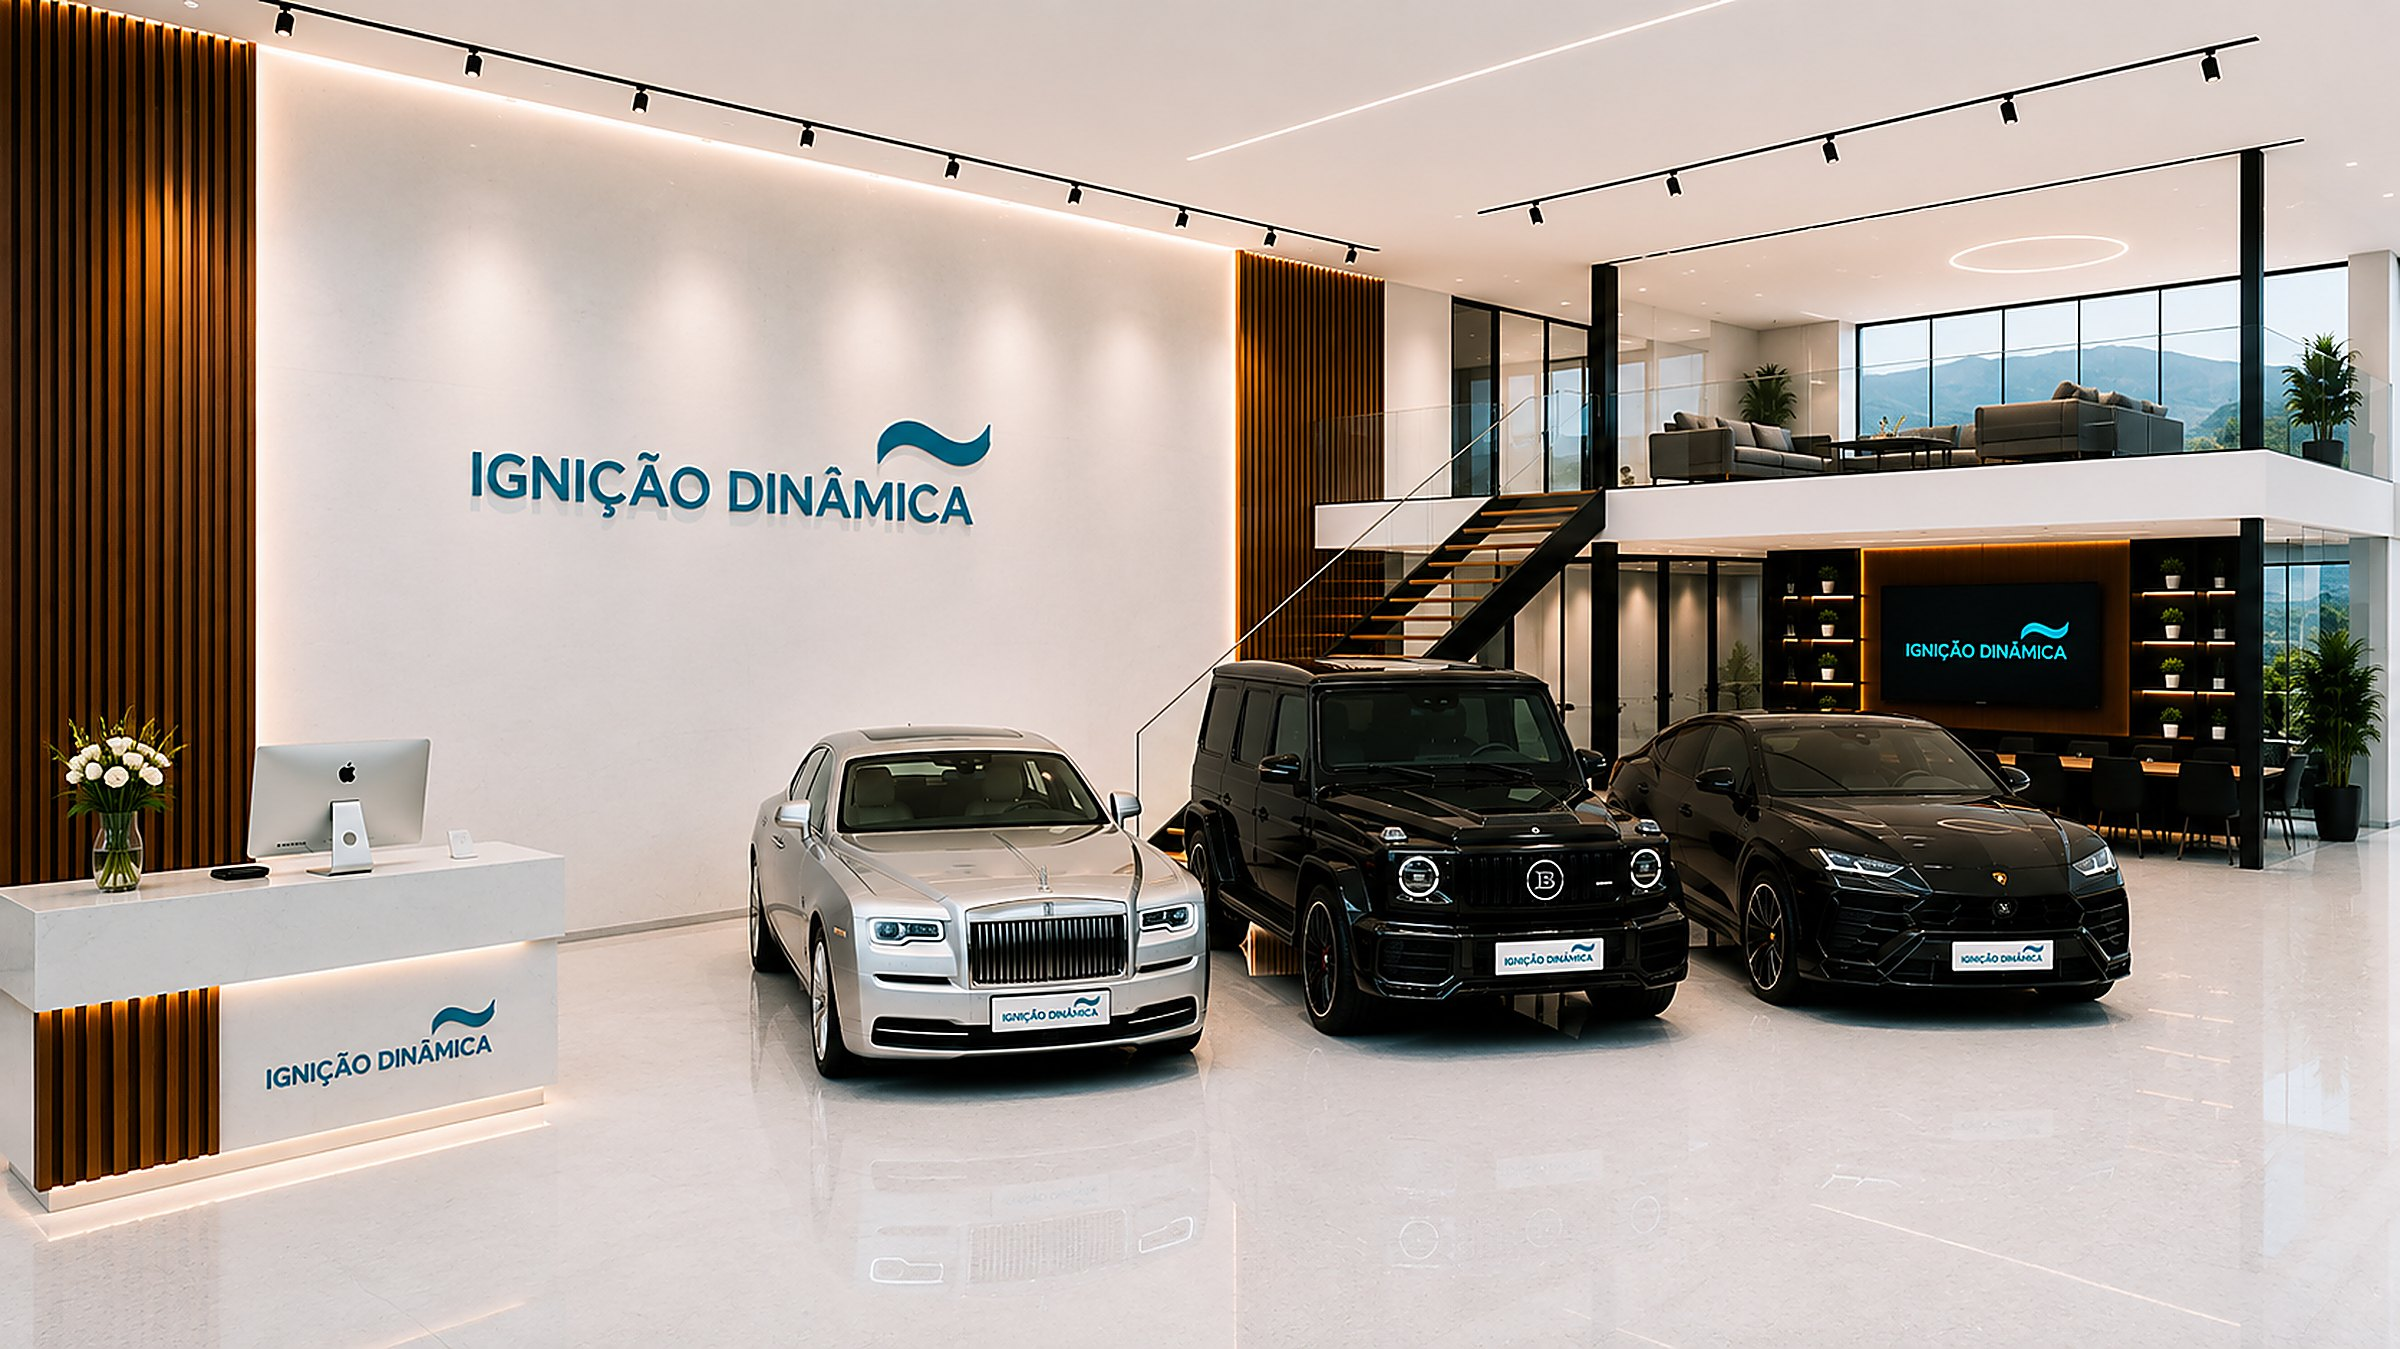
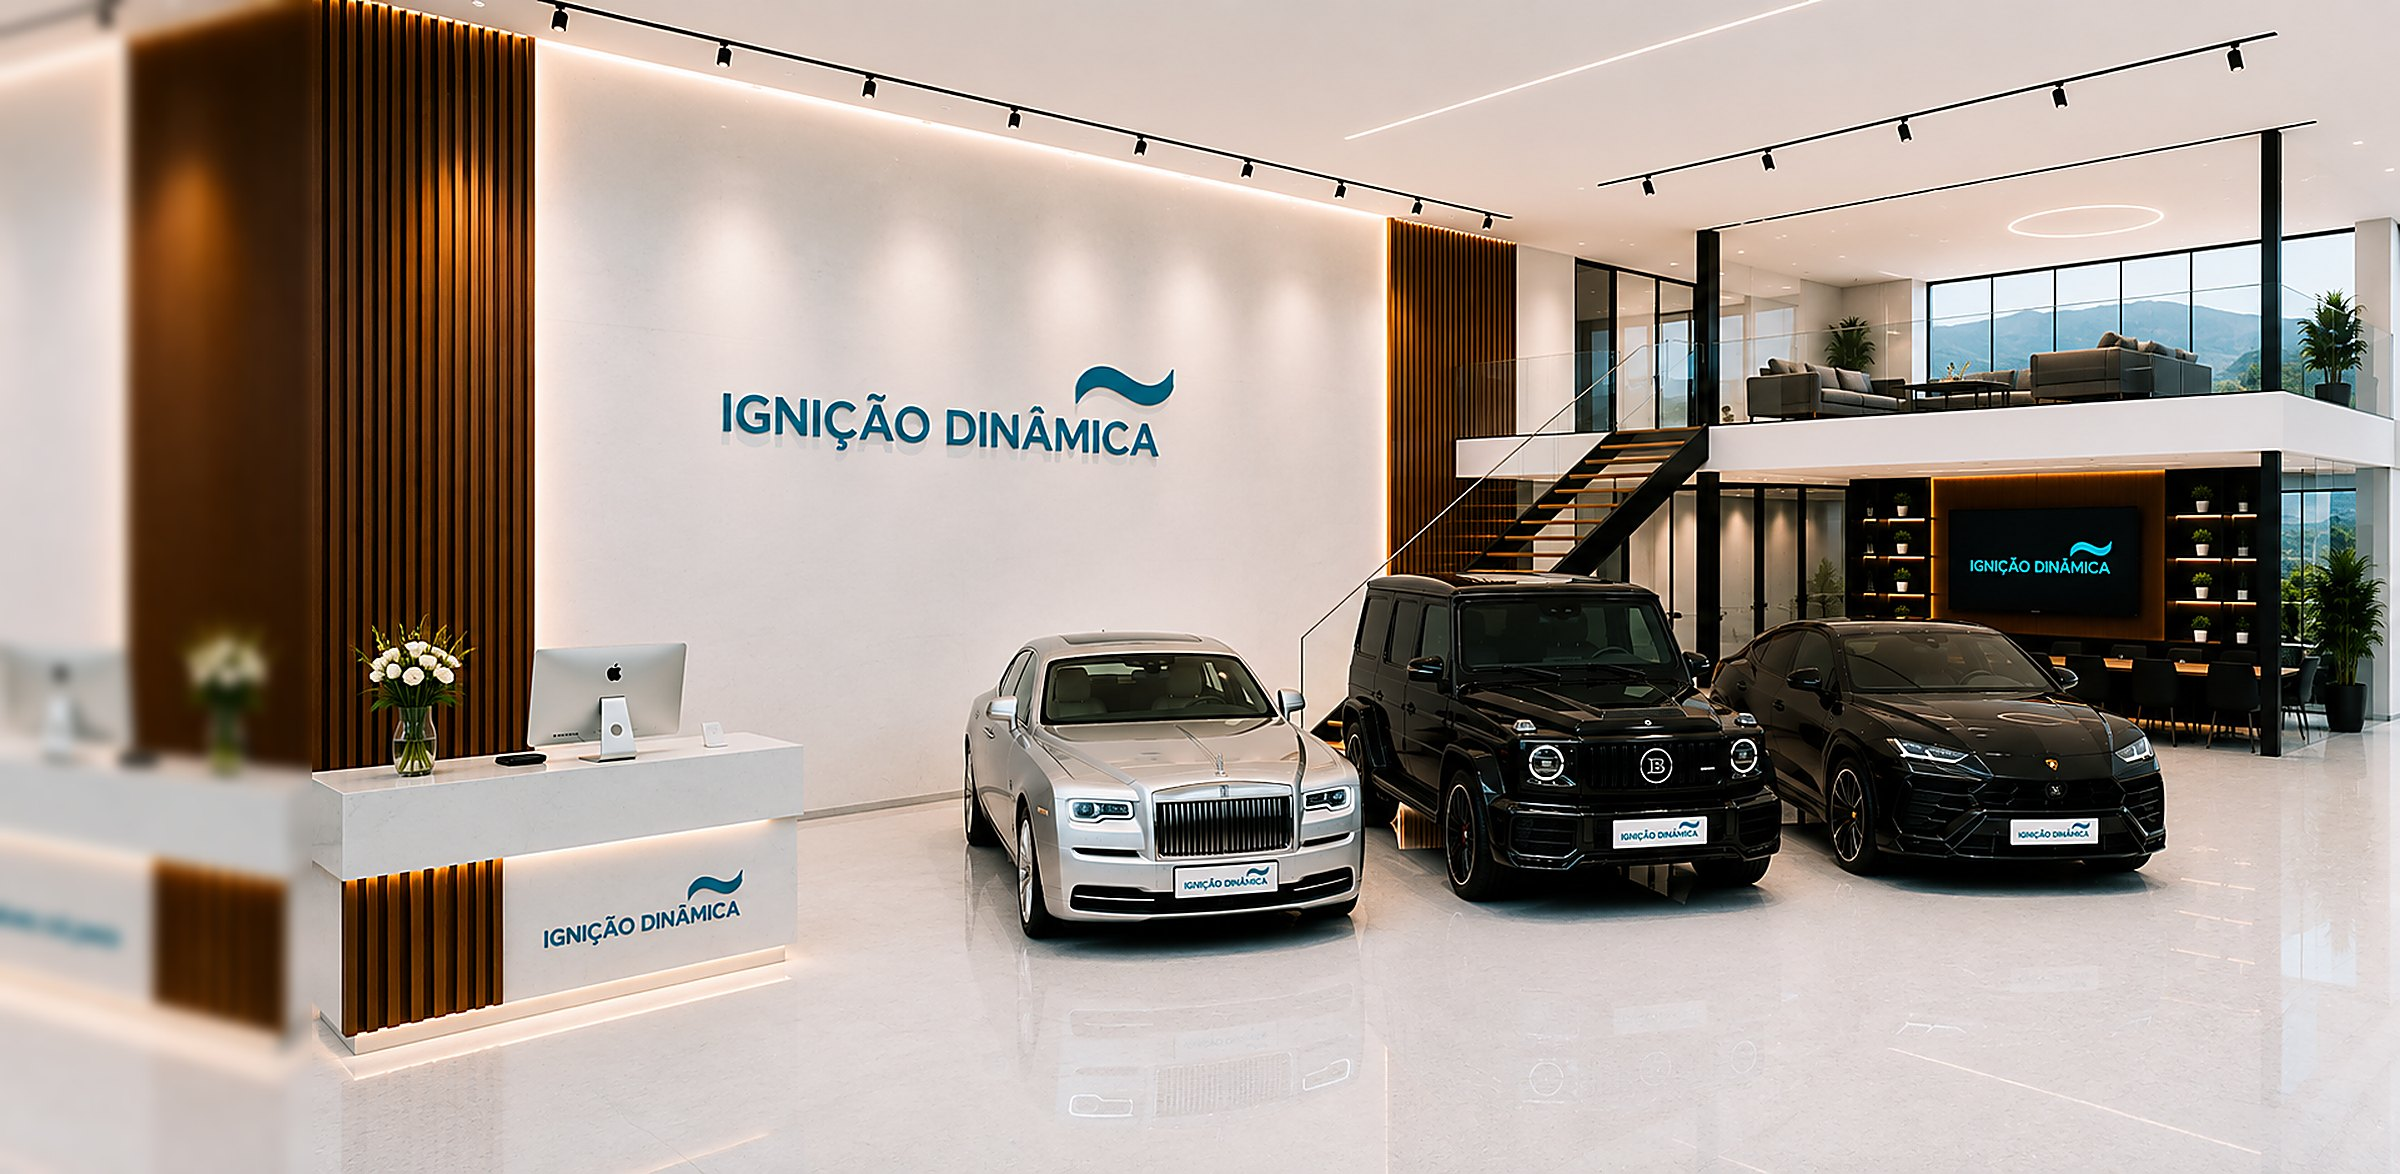
Shift the showroom right so the text clears the cars
CSS could not do this: the photograph already showed its full width at 1900px,
so object-position had no room to move. The cars had to move inside the frame,
which meant giving the frame more room on the left.

Extended the canvas 250px to the left with a mirrored, blurred copy of the
reception wall. It reads as depth of field rather than a repeat, and the veil's
dark panel covers most of it anyway. The frame goes to 2.045:1, close enough to
a wide desktop that little is cropped, and the cars move from a third of the
way in to nearly half.

Tried 500px first with the frame anchored left. It cleared the text completely
at 1900px but pushed the G63 and the Urus off the right edge at 1512px, losing
two of the three cars, so it is centred at 250 instead.

Headline down to a 2.9rem cap and the column to 47% for the last of the gap.
All three cars are whole at both widths and the text is off them.

Claude-Session: https://claude.ai/code/session_01BafphBuUFzfKosUgXsJfic

diff --git a/public/ignicao-dinamica.html b/public/ignicao-dinamica.html
@@ -122,7 +122,7 @@ section{position:relative}
 .eyebrow.center{justify-content:center}
 .eyebrow.on-dark{color:var(--ember)}
 
-.h-display{font-family:var(--display);font-weight:600;font-size:clamp(1.8rem,4.2vw,3.4rem);line-height:1.12;letter-spacing:-.032em}
+.h-display{font-family:var(--display);font-weight:600;font-size:clamp(1.7rem,3.6vw,2.9rem);line-height:1.12;letter-spacing:-.032em}
 .h1{font-family:var(--display);font-weight:600;font-size:clamp(2.05rem,5.2vw,3.7rem);line-height:1.08;letter-spacing:-.032em}
 .h2{font-family:var(--display);font-weight:600;font-size:clamp(1.65rem,3.2vw,2.5rem);line-height:1.14;letter-spacing:-.028em}
 .h3{font-size:clamp(1.05rem,1.5vw,1.28rem);font-weight:500;letter-spacing:-.012em;line-height:1.3}
@@ -271,7 +271,9 @@ section{position:relative}
 .hero__bg{position:absolute;inset:0;z-index:0}
 .hero__bg .ph{width:100%;height:100%;background:transparent}
 .hero__bg img{position:absolute;inset:0;width:100%;height:100%}
-.hero__bg #heroImg{object-fit:cover;object-position:center 46%}
+/* centrado: fixá-lo à esquerda empurrava os automóveis para fora do lado
+   direito em ecrãs de 1512px */
+.hero__bg #heroImg{object-fit:cover;object-position:center}
 .hero__veil{
   position:absolute;inset:0;z-index:1;
   /* painel escuro à esquerda, a assentar o texto; limpo do meio para a direita */
@@ -284,7 +286,7 @@ section{position:relative}
 }
 .hero__content{position:relative;z-index:3;width:100%;
   padding-block:clamp(118px,15vh,168px) clamp(36px,6vh,62px)}
-.hero__text{max-width:min(52%,640px);display:grid;gap:clamp(14px,1.6vw,20px)}
+.hero__text{max-width:min(47%,560px);display:grid;gap:clamp(14px,1.6vw,20px)}
 .hero__title{color:var(--text)}
 .hero__title em{font-style:normal;font-weight:500;color:var(--ember-2)}
 .hero__sub{max-width:34ch}
